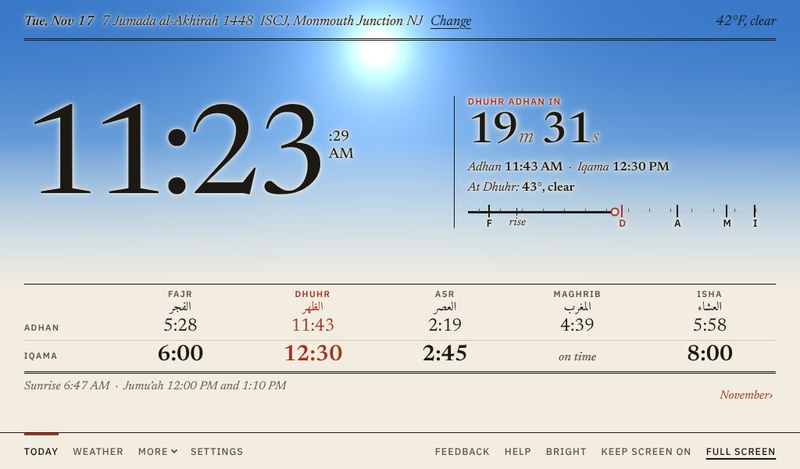
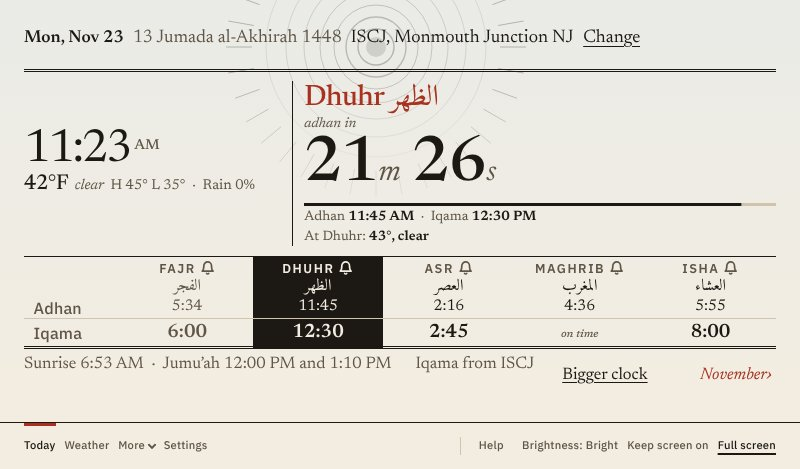
Guide: new screenshots and text for the polished Today screen
- Retook today-top, today-countdown, today-warning, clock-board, fullscreen
  and display-dim at 800x469 (with fixed weather, warning and iqama replies,
  so they match the text); added display-more for the Display page's new row
- Today chapter: the solid ink column, greyed past times, the bar under the
  countdown, the bell beside each prayer, Bigger clock / Bigger countdown, the
  day ruler on big screens and the folded timetable on phones
- Display chapter: Larger number on the clock, Full screen layout under More
  display options; Setup and Help say Brightness, as the button now does
- Shorter Automatic option for Larger number, so it fits its drop-down
- Pins placed from the page's own element positions, beside the text they mark

Claude-Session: https://claude.ai/code/session_01XcbEMSBHqonumVRiWc1ZiV

diff --git a/guide/today.html b/guide/today.html
@@ -25,26 +25,37 @@
 <p class="g-lead">Today is the screen your tablet shows all day. Everything on it updates by itself, so there is nothing to tap unless you want to.</p>
 
 <h2>The Today screen</h2>
-<figure class="g-shot"><a class="g-shot-frame" href="img/today-top.jpg"><img src="img/today-top.jpg" alt="The Today screen on a tablet: the date line at the top, a large clock reading 11:23, Dhuhr adhan in 19 minutes beside it with the adhan and iqama times, the weather at Dhuhr and the day ruler, then the five prayers with adhan and iqama times, and sunrise and Jumu'ah at the bottom." width="800" height="469" loading="lazy" decoding="async"><span class="g-pin" style="--x:4.38%;--y:8.74%" aria-hidden="true">1</span><span class="g-pin" style="--x:33.88%;--y:8.32%" aria-hidden="true">2</span><span class="g-pin" style="--x:37.5%;--y:31.98%" aria-hidden="true">3</span><span class="g-pin" style="--x:71.75%;--y:23.67%" aria-hidden="true">4</span><span class="g-pin" style="--x:75%;--y:39.45%" aria-hidden="true">5</span><span class="g-pin" style="--x:56.88%;--y:47.97%" aria-hidden="true">6</span><span class="g-pin" style="--x:29.25%;--y:68.02%" aria-hidden="true">7</span><span class="g-pin" style="--x:37.38%;--y:86.35%" aria-hidden="true">8</span></a><figcaption>The Today screen on a 7-inch tablet. <span class="g-zoom">(tap to see the whole screen)</span></figcaption></figure>
+<figure class="g-shot"><a class="g-shot-frame" href="img/today-top.jpg"><img src="img/today-top.jpg" alt="The Today screen on a 7-inch tablet: the date line at the top; the clock reading 11:23 with the weather now under it; Dhuhr adhan in 21 minutes in large print, a thin bar under it, the adhan and iqama times and the weather at Dhuhr; the five prayers with a bell beside each name and the Dhuhr column in solid ink; and sunrise, Jumu'ah, Bigger clock and November along the bottom." width="800" height="469" loading="lazy" decoding="async"><span class="g-pin" style="--x:7.5%;--y:2.56%" aria-hidden="true">1</span><span class="g-pin" style="--x:56.25%;--y:2.56%" aria-hidden="true">2</span><span class="g-pin" style="--x:25%;--y:31.98%" aria-hidden="true">3</span><span class="g-pin" style="--x:36.5%;--y:39.45%" aria-hidden="true">4</span><span class="g-pin" style="--x:67.5%;--y:35.39%" aria-hidden="true">5</span><span class="g-pin" style="--x:95%;--y:43.5%" aria-hidden="true">6</span><span class="g-pin" style="--x:56.88%;--y:50.53%" aria-hidden="true">7</span><span class="g-pin" style="--x:46.25%;--y:61.83%" aria-hidden="true">8</span><span class="g-pin" style="--x:94.38%;--y:56.93%" aria-hidden="true">9</span><span class="g-pin" style="--x:7.5%;--y:83.58%" aria-hidden="true">10</span><span class="g-pin" style="--x:84%;--y:80.17%" aria-hidden="true">11</span><span class="g-pin" style="--x:98.5%;--y:80.17%" aria-hidden="true">12</span></a><figcaption>The Today screen on a 7-inch tablet. <span class="g-zoom">(tap to see the whole screen)</span></figcaption></figure>
 <ol class="g-steps">
-<li><strong>The date</strong>, then the Hijri date in italics. Chapter 2 shows how to move the Hijri date a day if your local moon sighting differs.</li>
-<li><strong>Where the times are for</strong>, and the weather now at the end of the line. Tap <span class="g-ui">Change</span> to set your place, or tap the weather to open the Weather tab.</li>
-<li><strong>The clock</strong>, with seconds. Chapter 6 shows the other clock styles you can choose.</li>
-<li><strong>The countdown</strong> to the next adhan or iqama, with its adhan and iqama times underneath. In the last 15 minutes the countdown is highlighted and flashes once a second, so you can see it from across the room.</li>
+<li><strong>The date</strong>, then the Hijri date. Chapter 2 shows how to move the Hijri date a day if your local moon sighting differs.</li>
+<li><strong>Where the times are for.</strong> Tap <span class="g-ui">Change</span> to set your place.</li>
+<li><strong>The clock.</strong> Chapter 6 shows the other clock styles you can choose.</li>
+<li><strong>The weather now</strong>, with today’s high and low and the chance of rain. Tap it to open the Weather tab.</li>
+<li><strong>The countdown</strong> to the next adhan or iqama, under the prayer’s name in English and Arabic, with its adhan and iqama times underneath. In the last 15 minutes the countdown is highlighted and flashes once a second, so you can see it from across the room.</li>
+<li><strong>The bar</strong> fills up as the wait goes by: from the adhan to the iqama, from the iqama to the next adhan, and so on. On a big screen the day ruler takes its place (see below).</li>
 <li><strong>The weather at the next prayer</strong>, from the hourly forecast: the temperature, and rain or snow when it is likely.</li>
-<li><strong>The day ruler</strong>: the day from an hour before Fajr to an hour after Isha. The inked part is the day so far, the red ring is now, and each prayer has a letter: F, <em>rise</em> for sunrise, D (J on Fridays), A, M and I. The next prayer’s letter is red.</li>
-<li><strong>The five prayers</strong>, with the adhan time on the top row and the iqama time, in heavier type, underneath. The next prayer is in red. When the iqama is at the adhan, as it often is at Maghrib, it says <em>on time</em>.</li>
-<li><strong>Sunrise and Jumu’ah.</strong> Sunrise is when the time for Fajr ends. Jumu’ah lists the khutbah times. On Fridays they show in the Dhuhr column instead. At the right end of the same line, the month’s name (<span class="g-ui">November ›</span>) opens the whole month’s timetable.</li>
+<li><strong>The five prayers</strong>, with the adhan time on the top row and the iqama time, in heavier type, underneath. The next prayer is the column in solid ink, and the times that have passed are greyed. When the iqama is at the adhan, as it often is at Maghrib, it says <em>on time</em>.</li>
+<li><strong>The bell</strong> beside each prayer shows its alerts: an outline for a message only, filled in when an alert makes a sound, and crossed out when that prayer’s alerts are off. Tap it to open that prayer’s alerts (chapter 5).</li>
+<li><strong>Sunrise and Jumu’ah.</strong> Sunrise is when the time for Fajr ends. Jumu’ah lists the khutbah times. On Fridays they show in the Dhuhr column instead.</li>
+<li><strong>Bigger clock</strong> swaps the sizes, so the time is large and the countdown smaller. Tap <span class="g-ui">Bigger countdown</span> to swap back. On phones and small tablets the countdown is the large one to begin with, on bigger screens the clock.</li>
+<li><strong>The month’s name</strong> (<span class="g-ui">November ›</span>) opens the whole month’s timetable.</li>
 </ol>
 
 <h2>The countdown, close up</h2>
-<figure class="g-shot"><a class="g-shot-frame g-crop" href="img/today-countdown.jpg" style="aspect-ratio:344/154"><img src="img/today-countdown.jpg" alt="Dhuhr adhan in 19 minutes 32 seconds; Adhan 11:43 AM, Iqama 12:30 PM; At Dhuhr: 43°, clear; and the day ruler with the red ring before the D." width="800" height="469" loading="lazy" decoding="async" style="position:absolute;max-width:none;width:232.56%;left:-128.78%;top:-61.69%"><span class="g-pin" style="--x:48.84%;--y:31.17%" aria-hidden="true">1</span><span class="g-pin" style="--x:69.48%;--y:53.25%" aria-hidden="true">2</span><span class="g-pin" style="--x:47.38%;--y:66.23%" aria-hidden="true">3</span><span class="g-pin" style="--x:50%;--y:81.82%" aria-hidden="true">4</span></a><figcaption>The countdown beside the clock. <span class="g-zoom">(tap to see the whole screen)</span></figcaption></figure>
+<figure class="g-shot"><a class="g-shot-frame g-crop" href="img/today-countdown.jpg" style="aspect-ratio:494/176"><img src="img/today-countdown.jpg" alt="Dhuhr, adhan in 21 minutes 26 seconds in large print; a thin bar about nine-tenths full; Adhan 11:45 AM, Iqama 12:30 PM; At Dhuhr: 43°, clear." width="800" height="469" loading="lazy" decoding="async" style="position:absolute;max-width:none;width:161.94%;left:-59.11%;top:-43.18%"><span class="g-pin" style="--x:34.01%;--y:12.5%" aria-hidden="true">1</span><span class="g-pin" style="--x:50.2%;--y:51.14%" aria-hidden="true">2</span><span class="g-pin" style="--x:94.74%;--y:72.73%" aria-hidden="true">3</span><span class="g-pin" style="--x:54.25%;--y:80.68%" aria-hidden="true">4</span><span class="g-pin" style="--x:33%;--y:91.48%" aria-hidden="true">5</span></a><figcaption>The next prayer and its countdown. <span class="g-zoom">(tap to see the whole screen)</span></figcaption></figure>
 <ol class="g-steps">
-<li><strong>How long until</strong> the next adhan, or the iqama once the adhan has passed.</li>
+<li><strong>The next prayer</strong>, and what is coming: <em>adhan in</em>, or once the adhan has been called, <em>Adhan called · iqama in</em> in red.</li>
+<li><strong>How long until it.</strong></li>
+<li><strong>The bar</strong>, filling up as the wait goes by.</li>
 <li><strong>Its adhan and iqama times.</strong> On Fridays it shows the khutbah times.</li>
 <li><strong>The weather at that prayer.</strong> After Isha it is the weather at tomorrow’s Fajr.</li>
-<li><strong>Now</strong>, on the day ruler.</li>
 </ol>
+
+<h2>On a big screen: the day ruler</h2>
+<p>On a screen at least 1280 by 720, such as a 10-inch tablet or a computer, a <strong>day ruler</strong> takes the place of the bar: the day from an hour before Fajr to an hour after Isha. The inked part is the day so far, the red ring is now, and each prayer has a letter: F, <em>rise</em> for sunrise, D (J on Fridays), A, M and I. The next prayer’s letter is red.</p>
+
+<h2>On a phone</h2>
+<p>Held upright, a phone shows the clock and the next prayer first, with the timetable folded away under them. Tap <span class="g-ui">All prayer times</span> to open it, and <span class="g-ui">Hide prayer times</span> to fold it again. The phone remembers which you chose.</p>
 
 <h2>After Isha: tomorrow’s times</h2>
 <p>Once the Isha iqama has passed, the timetable moves on to the next day, because that is what you need to see by then: the first column says <strong>Tomorrow</strong>, and the five prayers, sunrise and the countdown are all tomorrow’s. If no iqama is set for Isha, it moves on an hour after the Isha adhan instead.</p>
@@ -55,7 +66,7 @@
 <p>If you leave the app on another screen, it returns to Today by itself after two minutes, so a tablet on the wall is never left showing something else. It stays where it is while a recitation is playing, while you are typing in Settings, or while a window is open.</p>
 
 <h2>Weather warnings</h2>
-<figure class="g-shot"><a class="g-shot-frame g-crop" href="img/today-warning.jpg" style="aspect-ratio:774/217"><img src="img/today-warning.jpg" alt="A red-ruled line above the clock: Winter Weather Advisory until 7:00 PM, National Weather Service office NWS Mount Holly NJ." width="800" height="469" loading="lazy" decoding="async" style="position:absolute;max-width:none;width:103.36%;left:-1.68%;top:-13.36%"><span class="g-pin" style="--x:40.96%;--y:10.14%" aria-hidden="true">1</span></a><figcaption>An example of the warning line. <span class="g-zoom">(tap to see the whole screen)</span></figcaption></figure>
+<figure class="g-shot"><a class="g-shot-frame g-crop" href="img/today-warning.jpg" style="aspect-ratio:774/227"><img src="img/today-warning.jpg" alt="A red-ruled line above the clock: Winter Weather Advisory until 7:00 PM, National Weather Service office NWS Mount Holly NJ." width="800" height="469" loading="lazy" decoding="async" style="position:absolute;max-width:none;width:103.36%;left:-1.68%;top:-12.78%"><span class="g-pin" style="--x:42.25%;--y:24.67%" aria-hidden="true">1</span></a><figcaption>An example of the warning line. <span class="g-zoom">(tap to see the whole screen)</span></figcaption></figure>
 <ol class="g-steps">
 <li>While an official <strong>warning, watch or advisory</strong> from the US National Weather Service is in force where you are, a red-ruled line names it and says when it ends. If there is more than one, it shows the most serious and how many more there are. The line goes away by itself when it ends. It is for US locations only.</li>
 </ol>

diff --git a/guide/display.html b/guide/display.html
@@ -27,7 +27,7 @@
 <h2>Clock styles</h2>
 <p>Six ways to show the time and today’s prayers. Pick one under <strong>Clock style</strong>.</p>
 <div class="g-gallery">
-<figure class="g-shot"><a class="g-shot-frame g-crop" href="img/clock-board.jpg" style="aspect-ratio:774/154"><img src="img/clock-board.jpg" alt="Masjid board: a large clock beside the countdown to Dhuhr and the day ruler." width="800" height="469" loading="lazy" decoding="async" style="position:absolute;max-width:none;width:103.36%;left:-1.68%;top:-61.69%"></a><figcaption><strong>Masjid board</strong>: the time in large print beside the countdown, and the prayers as one timetable, like the board at the masjid. Chapter 3 explains each part. <span class="g-zoom">(tap to see the whole screen)</span></figcaption></figure>
+<figure class="g-shot"><a class="g-shot-frame g-crop" href="img/clock-board.jpg" style="aspect-ratio:774/182"><img src="img/clock-board.jpg" alt="Masjid board: the clock beside a large countdown to Dhuhr, with a thin bar filling under it." width="800" height="469" loading="lazy" decoding="async" style="position:absolute;max-width:none;width:103.36%;left:-1.68%;top:-38.46%"></a><figcaption><strong>Masjid board</strong>: the time in large print beside the countdown, and the prayers as one timetable, like the board at the masjid. Chapter 3 explains each part. <span class="g-zoom">(tap to see the whole screen)</span></figcaption></figure>
 <figure class="g-shot"><a class="g-shot-frame g-crop" href="img/clock-dial.jpg" style="aspect-ratio:446/395"><img src="img/clock-dial.jpg" alt="24-hour dial: a ring for the whole day with the prayers marked around it and a countdown in the middle." width="800" height="469" loading="lazy" decoding="async" style="position:absolute;max-width:none;width:179.37%;left:-39.69%;top:-8.35%"></a><figcaption><strong>24-hour dial</strong>: the whole day as a ring, with a countdown in the middle. <span class="g-zoom">(tap to see the whole screen)</span></figcaption></figure>
 <figure class="g-shot"><a class="g-shot-frame g-crop" href="img/clock-analog.jpg" style="aspect-ratio:446/395"><img src="img/clock-analog.jpg" alt="Analog clock face: a clock with hands, Asr, Maghrib and Isha marked around the edge." width="800" height="469" loading="lazy" decoding="async" style="position:absolute;max-width:none;width:179.37%;left:-39.69%;top:-8.35%"></a><figcaption><strong>Analog clock face</strong>: hands, with the coming prayers marked round the edge. <span class="g-zoom">(tap to see the whole screen)</span></figcaption></figure>
 <figure class="g-shot"><a class="g-shot-frame g-crop" href="img/clock-sun.jpg" style="aspect-ratio:446/395"><img src="img/clock-sun.jpg" alt="Sun path: the sun's arc from sunrise to Maghrib, with Fajr and Isha below the horizon." width="800" height="469" loading="lazy" decoding="async" style="position:absolute;max-width:none;width:179.37%;left:-39.69%;top:-8.35%"></a><figcaption><strong>Sun path</strong>: where the sun is between sunrise and Maghrib. <span class="g-zoom">(tap to see the whole screen)</span></figcaption></figure>
@@ -40,19 +40,26 @@
 <ol class="g-steps">
 <li><strong>Clock style</strong>: the six styles above.</li>
 <li><strong>Look</strong>: <em>Printed timetable</em> (paper and ink), <em>Handwritten</em> (blue pen on a ruled sheet), or <em>High contrast</em> (black and white, easiest to read from afar).</li>
-<li><strong>Brightness now</strong>: Bright, Soft, Dim or Darkest. The <span class="g-ui">Bright</span> button at the bottom right of every screen does the same.</li>
+<li><strong>Brightness now</strong>: Bright, Soft, Dim or Darkest. The <span class="g-ui">Brightness</span> button at the bottom right of every screen does the same.</li>
 </ol>
 
 <h2>Night, duas and full screen</h2>
-<figure class="g-shot"><a class="g-shot-frame g-crop" href="img/display-dim.jpg" style="aspect-ratio:547/400"><img src="img/display-dim.jpg" alt="Dim automatically set to After Isha, the At night slider set to Dim, the Show duas and adhkar and Show transliteration switches, the Weather background drop-down, and the Full screen layout drop-down." width="800" height="469" loading="lazy" decoding="async" style="position:absolute;max-width:none;width:146.25%;left:-2.38%;top:-10%"><span class="g-pin" style="--x:8.59%;--y:7.5%" aria-hidden="true">1</span><span class="g-pin" style="--x:27.42%;--y:23.5%" aria-hidden="true">2</span><span class="g-pin" style="--x:5.48%;--y:45.5%" aria-hidden="true">3</span><span class="g-pin" style="--x:24.86%;--y:62.75%" aria-hidden="true">4</span><span class="g-pin" style="--x:24.86%;--y:94%" aria-hidden="true">5</span></a><figcaption>Further down the Display page. <span class="g-zoom">(tap to see the whole screen)</span></figcaption></figure>
+<figure class="g-shot"><a class="g-shot-frame g-crop" href="img/display-dim.jpg" style="aspect-ratio:547/320"><img src="img/display-dim.jpg" alt="Dim automatically set to After Isha, the At night slider set to Dim, and the Show duas and adhkar and Show transliteration switches." width="800" height="469" loading="lazy" decoding="async" style="position:absolute;max-width:none;width:146.25%;left:-2.38%;top:-28.13%"><span class="g-pin" style="--x:50.64%;--y:20.31%" aria-hidden="true">1</span><span class="g-pin" style="--x:70.75%;--y:51.56%" aria-hidden="true">2</span><span class="g-pin" style="--x:92.69%;--y:92.81%" aria-hidden="true">3</span></a><figcaption>Further down the Display page. <span class="g-zoom">(tap to see the whole screen)</span></figcaption></figure>
 <ol class="g-steps">
 <li><strong>Dim automatically</strong>: <em>After Isha</em>, <em>After Maghrib</em>, or <em>Off</em>. The screen goes bright again at sunrise.</li>
 <li><strong>At night</strong>: how dim it goes: Soft, Dim or Darkest.</li>
 <li><strong>Show duas and adhkar</strong> and <strong>Show transliteration</strong> turn the dua on the Today screen, and its English letters, on or off.</li>
-<li><strong>Weather background</strong> shows today’s weather moving along the top of the page. <em>Realistic sky</em> (the usual choice) draws the real sky: the sun on its path from sunrise to Maghrib, clouds drifting with the wind, rain and snow as heavy as they really are, fog, a soft glow behind the clouds in a storm, and at night the stars and the moon at the phase of the Hijri date. From Maghrib to sunrise the page turns to its dark look so the times stay easy to read. <em>Printed, moving</em> draws the same weather in ink; <em>Printed, still</em> keeps it still; <em>Off</em> leaves plain paper. Older tablets, and devices set to reduce motion, get a lighter version by themselves. There is no sky in the Handwritten and High contrast looks.</li>
-<li><strong>Full screen layout</strong>: <em>Times only</em>, <em>Clock, prayers and dua</em>, or <em>Automatic</em>, which shows times only on small screens.</li>
 </ol>
-<figure class="g-shot"><a class="g-shot-frame" href="img/fullscreen.jpg"><img src="img/fullscreen.jpg" alt="Full screen on a 7-inch tablet: the date line, the clock beside the countdown and the day ruler, and the five prayers with adhan and iqama times." width="800" height="469" loading="lazy" decoding="async"></a><figcaption>Full screen on a 7-inch tablet, with the <em>Automatic</em> layout. <span class="g-zoom">(tap to see the whole screen)</span></figcaption></figure>
+<figure class="g-shot"><a class="g-shot-frame g-crop" href="img/display-more.jpg" style="aspect-ratio:547/320"><img src="img/display-more.jpg" alt="The Weather background drop-down set to Printed by day, realistic sky at night, and the Larger number on the clock drop-down set to Automatic: countdown on small screens." width="800" height="469" loading="lazy" decoding="async" style="position:absolute;max-width:none;width:146.25%;left:-2.38%;top:-25%"><span class="g-pin" style="--x:65.27%;--y:19.38%" aria-hidden="true">1</span><span class="g-pin" style="--x:65.27%;--y:70.63%" aria-hidden="true">2</span></a><figcaption>Further down again. <span class="g-zoom">(tap to see the whole screen)</span></figcaption></figure>
+<ol class="g-steps">
+<li><strong>Weather background</strong> shows today’s weather moving along the top of the page. <em>Realistic sky</em> (the usual choice) draws the real sky: the sun on its path from sunrise to Maghrib, clouds drifting with the wind, rain and snow as heavy as they really are, fog, a soft glow behind the clouds in a storm, and at night the stars and the moon at the phase of the Hijri date. From Maghrib to sunrise the page turns to its dark look so the times stay easy to read. <em>Printed, moving</em> draws the same weather in ink; <em>Printed, still</em> keeps it still; <em>Off</em> leaves plain paper. Older tablets, and devices set to reduce motion, get a lighter version by themselves. There is no sky in the Handwritten and High contrast looks.</li>
+<li><strong>Larger number on the clock</strong>, for the Masjid board: <em>Automatic</em> shows the countdown large on phones and small tablets and the time large on bigger screens, or choose <em>The time now</em> or <em>The countdown to the next prayer</em> to keep one. <span class="g-ui">Bigger clock</span> and <span class="g-ui">Bigger countdown</span> on the Today screen do the same.</li>
+</ol>
+<p>Under <span class="g-ui">More display options</span>:</p>
+<ul>
+<li><strong>Full screen layout</strong>: <em>Times only</em>, <em>Clock, prayers and dua</em>, or <em>Automatic</em>, which shows times only on small screens.</li>
+</ul>
+<figure class="g-shot"><a class="g-shot-frame" href="img/fullscreen.jpg"><img src="img/fullscreen.jpg" alt="Full screen on a 7-inch tablet: the date line with Brightness and Exit full screen, the clock beside a large countdown to Dhuhr with its bar, and the five prayers with the Dhuhr column in solid ink." width="800" height="469" loading="lazy" decoding="async"></a><figcaption>Full screen on a 7-inch tablet, with the <em>Automatic</em> layout. <span class="g-zoom">(tap to see the whole screen)</span></figcaption></figure>
 
 <div class="g-note">
 <h3>Good to know</h3>

diff --git a/scripts/guide/chapters/today.html b/scripts/guide/chapters/today.html
@@ -1,26 +1,37 @@
 <p class="g-lead">Today is the screen your tablet shows all day. Everything on it updates by itself, so there is nothing to tap unless you want to.</p>
 
 <h2>The Today screen</h2>
-<shot src="today-top.jpg" alt="The Today screen on a tablet: the date line at the top, a large clock reading 11:23, Dhuhr adhan in 19 minutes beside it with the adhan and iqama times, the weather at Dhuhr and the day ruler, then the five prayers with adhan and iqama times, and sunrise and Jumu'ah at the bottom." pins="1@35,41 2@271,39 3@300,150 4@574,111 5@600,185 6@455,225 7@234,319 8@299,405">The Today screen on a 7-inch tablet.</shot>
+<shot src="today-top.jpg" alt="The Today screen on a 7-inch tablet: the date line at the top; the clock reading 11:23 with the weather now under it; Dhuhr adhan in 21 minutes in large print, a thin bar under it, the adhan and iqama times and the weather at Dhuhr; the five prayers with a bell beside each name and the Dhuhr column in solid ink; and sunrise, Jumu'ah, Bigger clock and November along the bottom." pins="1@60,12 2@450,12 3@200,150 4@292,185 5@540,166 6@760,204 7@455,237 8@370,290 9@755,267 10@60,392 11@672,376 12@788,376">The Today screen on a 7-inch tablet.</shot>
 <ol class="g-steps">
-<li><strong>The date</strong>, then the Hijri date in italics. Chapter 2 shows how to move the Hijri date a day if your local moon sighting differs.</li>
-<li><strong>Where the times are for</strong>, and the weather now at the end of the line. Tap <span class="g-ui">Change</span> to set your place, or tap the weather to open the Weather tab.</li>
-<li><strong>The clock</strong>, with seconds. Chapter 6 shows the other clock styles you can choose.</li>
-<li><strong>The countdown</strong> to the next adhan or iqama, with its adhan and iqama times underneath. In the last 15 minutes the countdown is highlighted and flashes once a second, so you can see it from across the room.</li>
+<li><strong>The date</strong>, then the Hijri date. Chapter 2 shows how to move the Hijri date a day if your local moon sighting differs.</li>
+<li><strong>Where the times are for.</strong> Tap <span class="g-ui">Change</span> to set your place.</li>
+<li><strong>The clock.</strong> Chapter 6 shows the other clock styles you can choose.</li>
+<li><strong>The weather now</strong>, with today’s high and low and the chance of rain. Tap it to open the Weather tab.</li>
+<li><strong>The countdown</strong> to the next adhan or iqama, under the prayer’s name in English and Arabic, with its adhan and iqama times underneath. In the last 15 minutes the countdown is highlighted and flashes once a second, so you can see it from across the room.</li>
+<li><strong>The bar</strong> fills up as the wait goes by: from the adhan to the iqama, from the iqama to the next adhan, and so on. On a big screen the day ruler takes its place (see below).</li>
 <li><strong>The weather at the next prayer</strong>, from the hourly forecast: the temperature, and rain or snow when it is likely.</li>
-<li><strong>The day ruler</strong>: the day from an hour before Fajr to an hour after Isha. The inked part is the day so far, the red ring is now, and each prayer has a letter: F, <em>rise</em> for sunrise, D (J on Fridays), A, M and I. The next prayer’s letter is red.</li>
-<li><strong>The five prayers</strong>, with the adhan time on the top row and the iqama time, in heavier type, underneath. The next prayer is in red. When the iqama is at the adhan, as it often is at Maghrib, it says <em>on time</em>.</li>
-<li><strong>Sunrise and Jumu’ah.</strong> Sunrise is when the time for Fajr ends. Jumu’ah lists the khutbah times. On Fridays they show in the Dhuhr column instead. At the right end of the same line, the month’s name (<span class="g-ui">November ›</span>) opens the whole month’s timetable.</li>
+<li><strong>The five prayers</strong>, with the adhan time on the top row and the iqama time, in heavier type, underneath. The next prayer is the column in solid ink, and the times that have passed are greyed. When the iqama is at the adhan, as it often is at Maghrib, it says <em>on time</em>.</li>
+<li><strong>The bell</strong> beside each prayer shows its alerts: an outline for a message only, filled in when an alert makes a sound, and crossed out when that prayer’s alerts are off. Tap it to open that prayer’s alerts (chapter 5).</li>
+<li><strong>Sunrise and Jumu’ah.</strong> Sunrise is when the time for Fajr ends. Jumu’ah lists the khutbah times. On Fridays they show in the Dhuhr column instead.</li>
+<li><strong>Bigger clock</strong> swaps the sizes, so the time is large and the countdown smaller. Tap <span class="g-ui">Bigger countdown</span> to swap back. On phones and small tablets the countdown is the large one to begin with, on bigger screens the clock.</li>
+<li><strong>The month’s name</strong> (<span class="g-ui">November ›</span>) opens the whole month’s timetable.</li>
 </ol>
 
 <h2>The countdown, close up</h2>
-<shot src="today-countdown.jpg" alt="Dhuhr adhan in 19 minutes 32 seconds; Adhan 11:43 AM, Iqama 12:30 PM; At Dhuhr: 43°, clear; and the day ruler with the red ring before the D." crop="443,95,787,249" pins="1@611,143 2@682,177 3@606,197 4@615,221">The countdown beside the clock.</shot>
+<shot src="today-countdown.jpg" alt="Dhuhr, adhan in 21 minutes 26 seconds in large print; a thin bar about nine-tenths full; Adhan 11:45 AM, Iqama 12:30 PM; At Dhuhr: 43°, clear." crop="292,76,786,252" pins="1@460,98 2@540,166 3@760,204 4@560,218 5@455,237">The next prayer and its countdown.</shot>
 <ol class="g-steps">
-<li><strong>How long until</strong> the next adhan, or the iqama once the adhan has passed.</li>
+<li><strong>The next prayer</strong>, and what is coming: <em>adhan in</em>, or once the adhan has been called, <em>Adhan called · iqama in</em> in red.</li>
+<li><strong>How long until it.</strong></li>
+<li><strong>The bar</strong>, filling up as the wait goes by.</li>
 <li><strong>Its adhan and iqama times.</strong> On Fridays it shows the khutbah times.</li>
 <li><strong>The weather at that prayer.</strong> After Isha it is the weather at tomorrow’s Fajr.</li>
-<li><strong>Now</strong>, on the day ruler.</li>
 </ol>
+
+<h2>On a big screen: the day ruler</h2>
+<p>On a screen at least 1280 by 720, such as a 10-inch tablet or a computer, a <strong>day ruler</strong> takes the place of the bar: the day from an hour before Fajr to an hour after Isha. The inked part is the day so far, the red ring is now, and each prayer has a letter: F, <em>rise</em> for sunrise, D (J on Fridays), A, M and I. The next prayer’s letter is red.</p>
+
+<h2>On a phone</h2>
+<p>Held upright, a phone shows the clock and the next prayer first, with the timetable folded away under them. Tap <span class="g-ui">All prayer times</span> to open it, and <span class="g-ui">Hide prayer times</span> to fold it again. The phone remembers which you chose.</p>
 
 <h2>After Isha: tomorrow’s times</h2>
 <p>Once the Isha iqama has passed, the timetable moves on to the next day, because that is what you need to see by then: the first column says <strong>Tomorrow</strong>, and the five prayers, sunrise and the countdown are all tomorrow’s. If no iqama is set for Isha, it moves on an hour after the Isha adhan instead.</p>
@@ -31,7 +42,7 @@
 <p>If you leave the app on another screen, it returns to Today by itself after two minutes, so a tablet on the wall is never left showing something else. It stays where it is while a recitation is playing, while you are typing in Settings, or while a window is open.</p>
 
 <h2>Weather warnings</h2>
-<shot src="today-warning.jpg" alt="A red-ruled line above the clock: Winter Weather Advisory until 7:00 PM, National Weather Service office NWS Mount Holly NJ." crop="13,29,787,246" pins="1@330,51">An example of the warning line.</shot>
+<shot src="today-warning.jpg" alt="A red-ruled line above the clock: Winter Weather Advisory until 7:00 PM, National Weather Service office NWS Mount Holly NJ." crop="13,29,787,256" pins="1@340,85">An example of the warning line.</shot>
 <ol class="g-steps">
 <li>While an official <strong>warning, watch or advisory</strong> from the US National Weather Service is in force where you are, a red-ruled line names it and says when it ends. If there is more than one, it shows the most serious and how many more there are. The line goes away by itself when it ends. It is for US locations only.</li>
 </ol>

diff --git a/scripts/guide/chapters/display.html b/scripts/guide/chapters/display.html
@@ -3,7 +3,7 @@
 <h2>Clock styles</h2>
 <p>Six ways to show the time and today’s prayers. Pick one under <strong>Clock style</strong>.</p>
 <div class="g-gallery">
-<shot src="clock-board.jpg" alt="Masjid board: a large clock beside the countdown to Dhuhr and the day ruler." crop="13,95,787,249"><strong>Masjid board</strong>: the time in large print beside the countdown, and the prayers as one timetable, like the board at the masjid. Chapter 3 explains each part.</shot>
+<shot src="clock-board.jpg" alt="Masjid board: the clock beside a large countdown to Dhuhr, with a thin bar filling under it." crop="13,70,787,252"><strong>Masjid board</strong>: the time in large print beside the countdown, and the prayers as one timetable, like the board at the masjid. Chapter 3 explains each part.</shot>
 <shot src="clock-dial.jpg" alt="24-hour dial: a ring for the whole day with the prayers marked around it and a countdown in the middle." crop="177,33,623,428"><strong>24-hour dial</strong>: the whole day as a ring, with a countdown in the middle.</shot>
 <shot src="clock-analog.jpg" alt="Analog clock face: a clock with hands, Asr, Maghrib and Isha marked around the edge." crop="177,33,623,428"><strong>Analog clock face</strong>: hands, with the coming prayers marked round the edge.</shot>
 <shot src="clock-sun.jpg" alt="Sun path: the sun's arc from sunrise to Maghrib, with Fajr and Isha below the horizon." crop="177,33,623,428"><strong>Sun path</strong>: where the sun is between sunrise and Maghrib.</shot>
@@ -16,19 +16,26 @@
 <ol class="g-steps">
 <li><strong>Clock style</strong>: the six styles above.</li>
 <li><strong>Look</strong>: <em>Printed timetable</em> (paper and ink), <em>Handwritten</em> (blue pen on a ruled sheet), or <em>High contrast</em> (black and white, easiest to read from afar).</li>
-<li><strong>Brightness now</strong>: Bright, Soft, Dim or Darkest. The <span class="g-ui">Bright</span> button at the bottom right of every screen does the same.</li>
+<li><strong>Brightness now</strong>: Bright, Soft, Dim or Darkest. The <span class="g-ui">Brightness</span> button at the bottom right of every screen does the same.</li>
 </ol>
 
 <h2>Night, duas and full screen</h2>
-<shot src="display-dim.jpg" alt="Dim automatically set to After Isha, the At night slider set to Dim, the Show duas and adhkar and Show transliteration switches, the Weather background drop-down, and the Full screen layout drop-down." crop="13,40,560,440" pins="1@60,70 2@163,134 3@43,222 4@149,291 5@149,416">Further down the Display page.</shot>
+<shot src="display-dim.jpg" alt="Dim automatically set to After Isha, the At night slider set to Dim, and the Show duas and adhkar and Show transliteration switches." crop="13,90,560,410" pins="1@290,155 2@400,255 3@520,387">Further down the Display page.</shot>
 <ol class="g-steps">
 <li><strong>Dim automatically</strong>: <em>After Isha</em>, <em>After Maghrib</em>, or <em>Off</em>. The screen goes bright again at sunrise.</li>
 <li><strong>At night</strong>: how dim it goes: Soft, Dim or Darkest.</li>
 <li><strong>Show duas and adhkar</strong> and <strong>Show transliteration</strong> turn the dua on the Today screen, and its English letters, on or off.</li>
-<li><strong>Weather background</strong> shows today’s weather moving along the top of the page. <em>Realistic sky</em> (the usual choice) draws the real sky: the sun on its path from sunrise to Maghrib, clouds drifting with the wind, rain and snow as heavy as they really are, fog, a soft glow behind the clouds in a storm, and at night the stars and the moon at the phase of the Hijri date. From Maghrib to sunrise the page turns to its dark look so the times stay easy to read. <em>Printed, moving</em> draws the same weather in ink; <em>Printed, still</em> keeps it still; <em>Off</em> leaves plain paper. Older tablets, and devices set to reduce motion, get a lighter version by themselves. There is no sky in the Handwritten and High contrast looks.</li>
-<li><strong>Full screen layout</strong>: <em>Times only</em>, <em>Clock, prayers and dua</em>, or <em>Automatic</em>, which shows times only on small screens.</li>
 </ol>
-<shot src="fullscreen.jpg" alt="Full screen on a 7-inch tablet: the date line, the clock beside the countdown and the day ruler, and the five prayers with adhan and iqama times.">Full screen on a 7-inch tablet, with the <em>Automatic</em> layout.</shot>
+<shot src="display-more.jpg" alt="The Weather background drop-down set to Printed by day, realistic sky at night, and the Larger number on the clock drop-down set to Automatic: countdown on small screens." crop="13,80,560,400" pins="1@370,142 2@370,306">Further down again.</shot>
+<ol class="g-steps">
+<li><strong>Weather background</strong> shows today’s weather moving along the top of the page. <em>Realistic sky</em> (the usual choice) draws the real sky: the sun on its path from sunrise to Maghrib, clouds drifting with the wind, rain and snow as heavy as they really are, fog, a soft glow behind the clouds in a storm, and at night the stars and the moon at the phase of the Hijri date. From Maghrib to sunrise the page turns to its dark look so the times stay easy to read. <em>Printed, moving</em> draws the same weather in ink; <em>Printed, still</em> keeps it still; <em>Off</em> leaves plain paper. Older tablets, and devices set to reduce motion, get a lighter version by themselves. There is no sky in the Handwritten and High contrast looks.</li>
+<li><strong>Larger number on the clock</strong>, for the Masjid board: <em>Automatic</em> shows the countdown large on phones and small tablets and the time large on bigger screens, or choose <em>The time now</em> or <em>The countdown to the next prayer</em> to keep one. <span class="g-ui">Bigger clock</span> and <span class="g-ui">Bigger countdown</span> on the Today screen do the same.</li>
+</ol>
+<p>Under <span class="g-ui">More display options</span>:</p>
+<ul>
+<li><strong>Full screen layout</strong>: <em>Times only</em>, <em>Clock, prayers and dua</em>, or <em>Automatic</em>, which shows times only on small screens.</li>
+</ul>
+<shot src="fullscreen.jpg" alt="Full screen on a 7-inch tablet: the date line with Brightness and Exit full screen, the clock beside a large countdown to Dhuhr with its bar, and the five prayers with the Dhuhr column in solid ink.">Full screen on a 7-inch tablet, with the <em>Automatic</em> layout.</shot>
 
 <div class="g-note">
 <h3>Good to know</h3>

diff --git a/guide/setup.html b/guide/setup.html
@@ -76,9 +76,9 @@
 
 <h2>The buttons at the bottom right</h2>
 <p>On a tablet these sit at the bottom right of every screen, at the end of the row of tabs. On a phone they are the three buttons at the top right.</p>
-<figure class="g-shot"><a class="g-shot-frame g-crop" href="img/today-top.jpg" style="aspect-ratio:280/45"><img src="img/today-top.jpg" alt="The bottom of the Today screen: the tabs, then Help, Bright, Keep screen on and Full screen at the right." width="800" height="469" loading="lazy" decoding="async" style="position:absolute;max-width:none;width:285.71%;left:-185.71%;top:-942.22%"><span class="g-pin" style="--x:16.43%;--y:60%" aria-hidden="true">1</span><span class="g-pin" style="--x:45%;--y:60%" aria-hidden="true">2</span><span class="g-pin" style="--x:78.93%;--y:60%" aria-hidden="true">3</span></a><figcaption>The bottom right of the Today screen. <span class="g-zoom">(tap to see the whole screen)</span></figcaption></figure>
+<figure class="g-shot"><a class="g-shot-frame g-crop" href="img/today-top.jpg" style="aspect-ratio:350/47"><img src="img/today-top.jpg" alt="The bottom of the Today screen: Help, Brightness: Bright, Keep screen on and Full screen at the right." width="800" height="469" loading="lazy" decoding="async" style="position:absolute;max-width:none;width:228.57%;left:-128.57%;top:-897.87%"><span class="g-pin" style="--x:34.29%;--y:51.06%" aria-hidden="true">1</span><span class="g-pin" style="--x:62.29%;--y:51.06%" aria-hidden="true">2</span><span class="g-pin" style="--x:84.86%;--y:51.06%" aria-hidden="true">3</span></a><figcaption>The bottom right of the Today screen. <span class="g-zoom">(tap to see the whole screen)</span></figcaption></figure>
 <ol class="g-steps">
-<li><strong>Bright</strong> changes how bright the page is: Bright, Soft, Dim or Darkest. Chapter 6 shows how to dim it by itself at night.</li>
+<li><strong>Brightness</strong> changes how bright the page is: Bright, Soft, Dim or Darkest. Chapter 6 shows how to dim it by itself at night.</li>
 <li><strong>Keep screen on</strong> stops the tablet going to sleep while the app is open. Tap it again to turn it off.</li>
 <li><strong>Full screen</strong> shows the large clock and today’s times with nothing else around them. Tap <span class="g-ui">Exit full screen</span> to come back.</li>
 </ol>

diff --git a/guide/help.html b/guide/help.html
@@ -31,7 +31,7 @@
 <tr><td>No sound at the adhan</td><td>Alerts start as <em>Message only</em>; choose a sound (<a href="alerts">chapter 5</a>). Tap the screen once after opening the app. Check the volume and that the tablet is not muted.</td></tr>
 <tr><td><span class="g-ui">Tap to enable sound</span> keeps appearing</td><td>The browser needs one tap after the app opens. Tap the button and the alert plays.</td></tr>
 <tr><td>The screen goes dark</td><td>Tap <span class="g-ui">Keep screen on</span>, and set a long screen timeout or Auto-Lock to Never (<a href="setup">chapter 1</a>).</td></tr>
-<tr><td>The page turns amber or dark at night</td><td>That is <em>Dim automatically</em>. Change or turn it off in <a href="display">chapter 6</a>, or tap <span class="g-ui">Bright</span>.</td></tr>
+<tr><td>The page turns amber or dark at night</td><td>That is <em>Dim automatically</em>. Change or turn it off in <a href="display">chapter 6</a>, or tap <span class="g-ui">Brightness</span>.</td></tr>
 <tr><td>Adhan times differ from my masjid</td><td>Check the method and Asr setting, then adjust single prayers by a few minutes (<a href="location">chapter 2</a>).</td></tr>
 <tr><td>Iqama times look old</td><td>Look at <strong>Last synced</strong> beside <span class="g-ui">Sync now</span> on the Today screen: if it stands out in colour, the masjid’s times could not be read and these are the last ones saved. Check the Wi-Fi, then tap <span class="g-ui">Sync now</span>. Away from ISCJ, set your own (<a href="iqama">chapter 4</a>).</td></tr>
 <tr><td>The timetable shows tomorrow’s times</td><td>That is meant to happen, from the Isha iqama until midnight, so the first column says <strong>Tomorrow</strong> (<a href="today">chapter 3</a>). The date at the top still shows today.</td></tr>

diff --git a/scripts/guide/chapters/help.html b/scripts/guide/chapters/help.html
@@ -7,7 +7,7 @@
 <tr><td>No sound at the adhan</td><td>Alerts start as <em>Message only</em>; choose a sound (<a href="alerts">chapter 5</a>). Tap the screen once after opening the app. Check the volume and that the tablet is not muted.</td></tr>
 <tr><td><span class="g-ui">Tap to enable sound</span> keeps appearing</td><td>The browser needs one tap after the app opens. Tap the button and the alert plays.</td></tr>
 <tr><td>The screen goes dark</td><td>Tap <span class="g-ui">Keep screen on</span>, and set a long screen timeout or Auto-Lock to Never (<a href="setup">chapter 1</a>).</td></tr>
-<tr><td>The page turns amber or dark at night</td><td>That is <em>Dim automatically</em>. Change or turn it off in <a href="display">chapter 6</a>, or tap <span class="g-ui">Bright</span>.</td></tr>
+<tr><td>The page turns amber or dark at night</td><td>That is <em>Dim automatically</em>. Change or turn it off in <a href="display">chapter 6</a>, or tap <span class="g-ui">Brightness</span>.</td></tr>
 <tr><td>Adhan times differ from my masjid</td><td>Check the method and Asr setting, then adjust single prayers by a few minutes (<a href="location">chapter 2</a>).</td></tr>
 <tr><td>Iqama times look old</td><td>Look at <strong>Last synced</strong> beside <span class="g-ui">Sync now</span> on the Today screen: if it stands out in colour, the masjid’s times could not be read and these are the last ones saved. Check the Wi-Fi, then tap <span class="g-ui">Sync now</span>. Away from ISCJ, set your own (<a href="iqama">chapter 4</a>).</td></tr>
 <tr><td>The timetable shows tomorrow’s times</td><td>That is meant to happen, from the Isha iqama until midnight, so the first column says <strong>Tomorrow</strong> (<a href="today">chapter 3</a>). The date at the top still shows today.</td></tr>

diff --git a/scripts/guide/chapters/setup.html b/scripts/guide/chapters/setup.html
@@ -52,9 +52,9 @@
 
 <h2>The buttons at the bottom right</h2>
 <p>On a tablet these sit at the bottom right of every screen, at the end of the row of tabs. On a phone they are the three buttons at the top right.</p>
-<shot src="today-top.jpg" alt="The bottom of the Today screen: the tabs, then Help, Bright, Keep screen on and Full screen at the right." crop="520,424,800,469" pins="1@566,451 2@646,451 3@741,451">The bottom right of the Today screen.</shot>
+<shot src="today-top.jpg" alt="The bottom of the Today screen: Help, Brightness: Bright, Keep screen on and Full screen at the right." crop="450,422,800,469" pins="1@570,446 2@668,446 3@747,446">The bottom right of the Today screen.</shot>
 <ol class="g-steps">
-<li><strong>Bright</strong> changes how bright the page is: Bright, Soft, Dim or Darkest. Chapter 6 shows how to dim it by itself at night.</li>
+<li><strong>Brightness</strong> changes how bright the page is: Bright, Soft, Dim or Darkest. Chapter 6 shows how to dim it by itself at night.</li>
 <li><strong>Keep screen on</strong> stops the tablet going to sleep while the app is open. Tap it again to turn it off.</li>
 <li><strong>Full screen</strong> shows the large clock and today’s times with nothing else around them. Tap <span class="g-ui">Exit full screen</span> to come back.</li>
 </ol>

diff --git a/index.html b/index.html
@@ -266,7 +266,7 @@
                     </div>
                     <div class="set-group">
                         <label class="iq-label" for="set-big">Larger number on the clock</label>
-                        <select class="d-select" id="set-big" aria-describedby="big-note"><option value="auto">Automatic: countdown on phones and small tablets, clock on bigger screens</option><option value="time">The time now</option><option value="count">The countdown to the next prayer</option></select>
+                        <select class="d-select" id="set-big" aria-describedby="big-note"><option value="auto">Automatic: countdown on small screens</option><option value="time">The time now</option><option value="count">The countdown to the next prayer</option></select>
                         <p class="iq-note" id="big-note">For the Board clock style. You can also swap it with Bigger clock or Bigger countdown under the timetable.</p>
                     </div>
                     <details class="set-more"><summary>More display options</summary>
